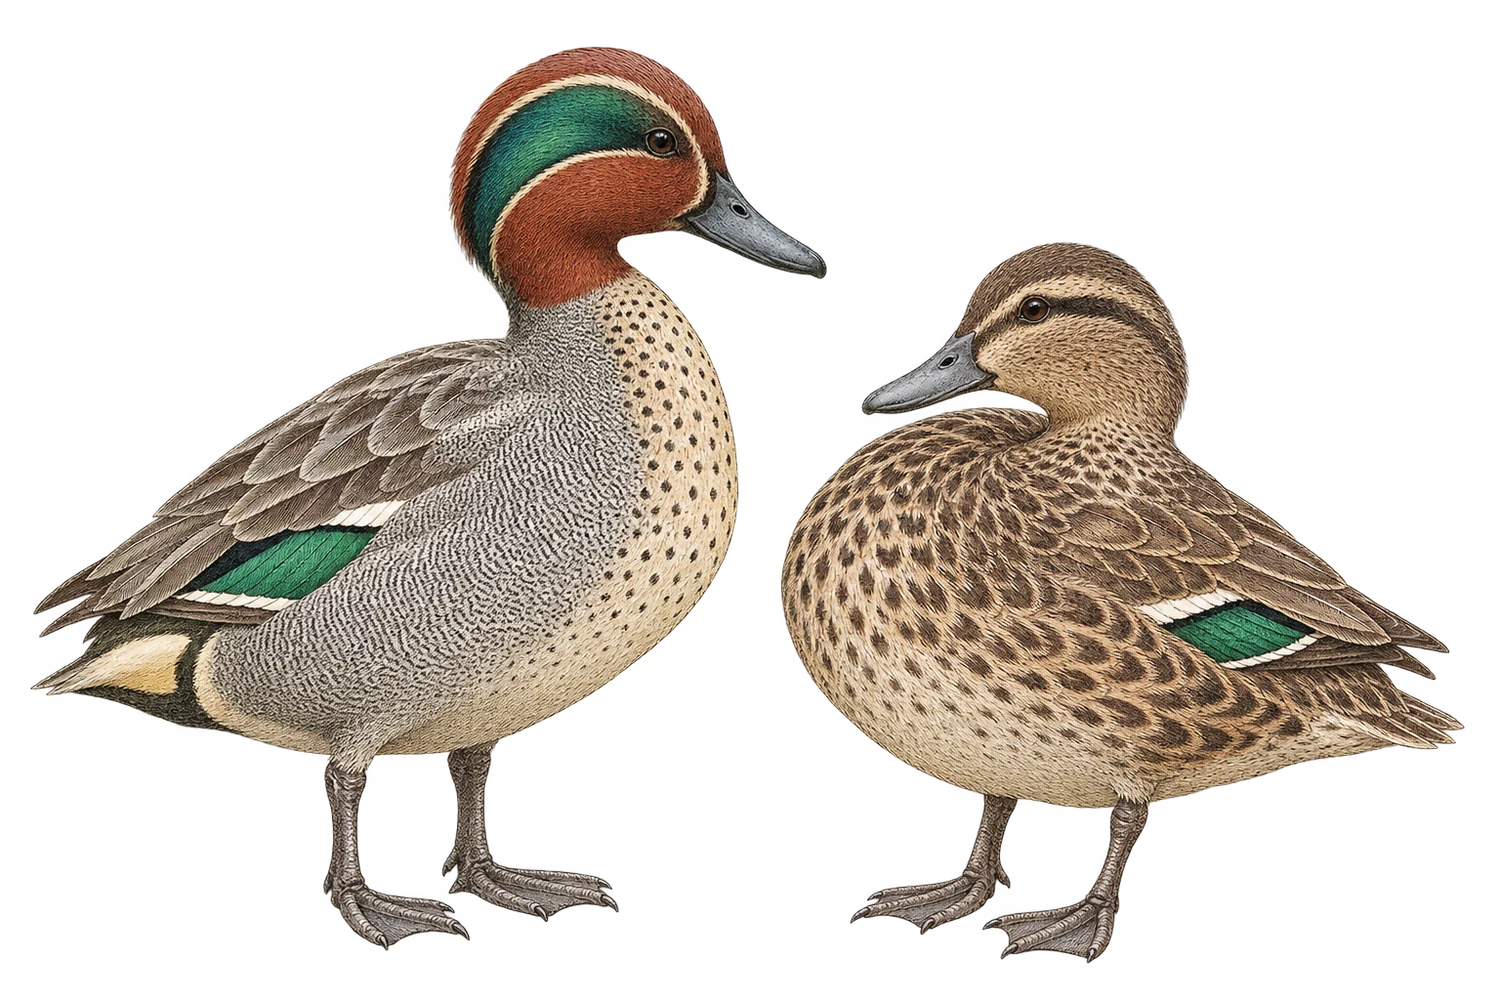
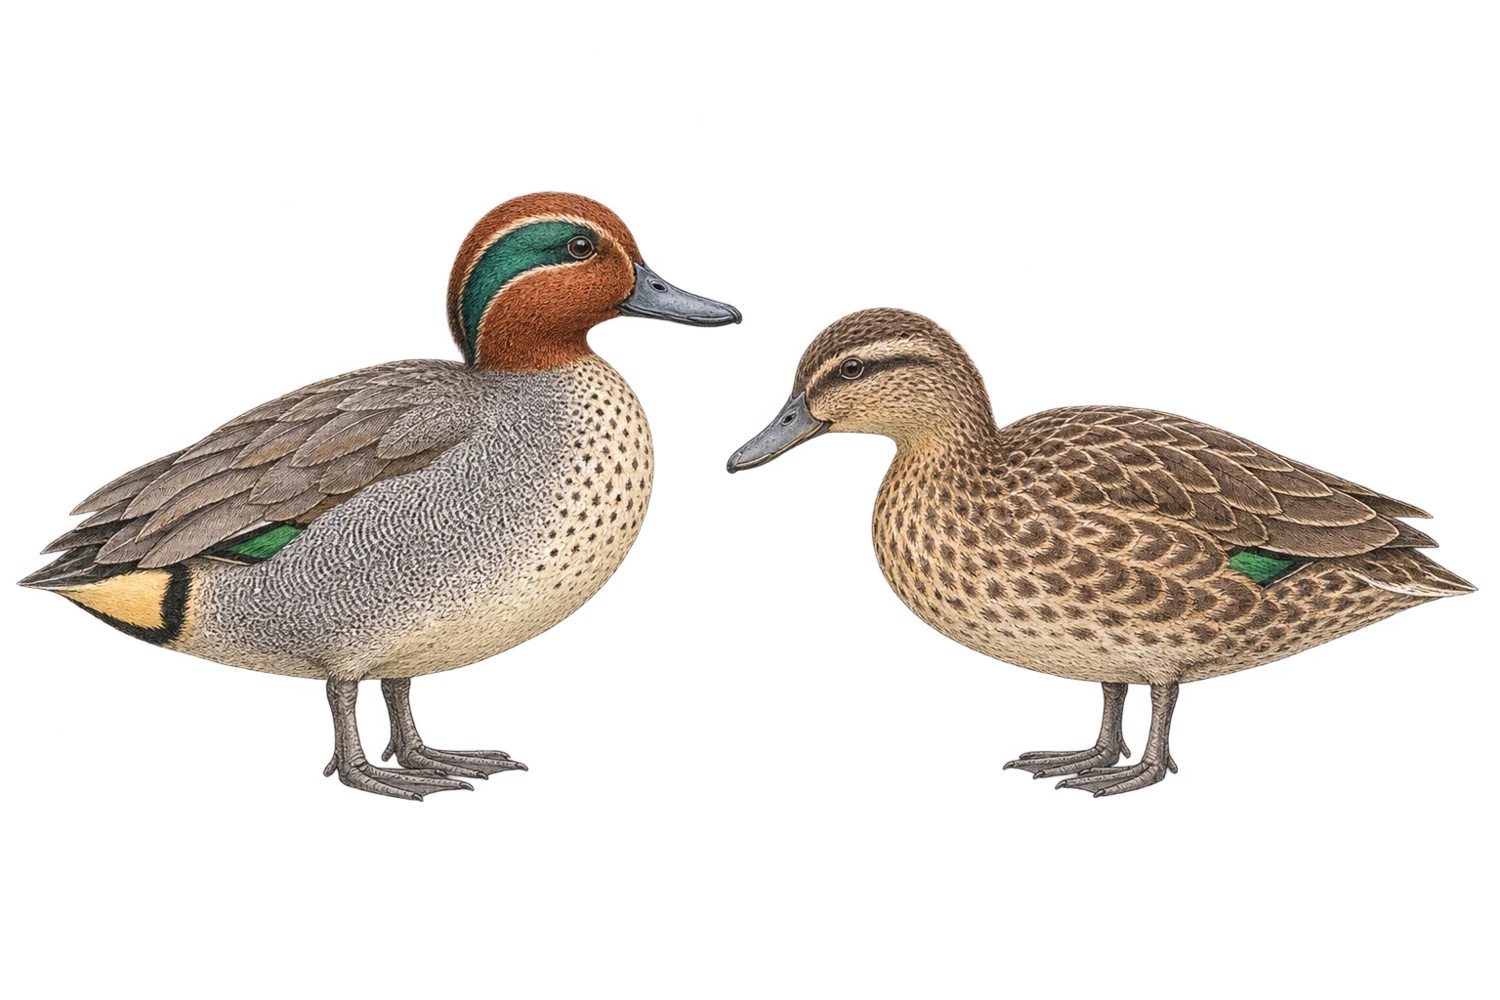
Deck: answer slide for Vote 3, new duck pair, pond on the last slide
- Slide 27 (new) answers the vote on slide 26; the deck now has 31 slides
- Slide 12: the pair is redrawn with correct standing anatomy
- Slide 31: the drake swims on a small pond with ripples, reeds and grass

Claude-Session: https://claude.ai/code/session_018LqARvXxcm6SYZi3cFreuJ

diff --git a/materials/slides/index.html b/materials/slides/index.html
@@ -397,6 +397,17 @@ td.t{font:500 24px var(--mono);color:var(--teal);white-space:nowrap}
 </section>
 
 <!-- 27 -->
+<section class="slide" data-section="Vote 3">
+  <h2>B. The rule blocks it.</h2>
+  <p class="lede" style="max-width:38ch">"All tests pass" is a claim. CI is the check. <code>main</code> takes a pull request only when the check is green, and an approval does not change that.</p>
+  <div class="grid g3" style="margin-top:50px">
+    <div class="panel rise"><div class="tag teal">Claim</div><p class="small">The agent ran the tests on its own machine, maybe on older code</p></div>
+    <div class="panel rise"><div class="tag teal">Check</div><p class="small">CI runs the same commands on a clean machine, for every push</p></div>
+    <div class="win rise"><div class="tag">Rule</div><p style="font-size:24px">Red check: no merge, for anyone. Fix the branch, push again.</p></div>
+  </div>
+</section>
+
+<!-- 28 -->
 <section class="slide section" data-section="5 · Play">
   <div class="grid" style="grid-template-columns:1fr 340px;gap:80px;align-items:center;height:100%">
     <div><div class="big">05</div><h2 style="margin-top:20px">Integrate and play</h2><p class="lede">Both sides merged. Scan again and play the version we just built.</p></div>
@@ -405,7 +416,7 @@ td.t{font:500 24px var(--mono);color:var(--teal);white-space:nowrap}
   <div class="duck" style="right:205px;bottom:100px;width:175px"><img src="assets/teal-landing.webp" alt=""></div>
 </section>
 
-<!-- 28 -->
+<!-- 29 -->
 <section class="slide" data-section="6 · Sign-off">
   <h2>Sign-off</h2>
   <div class="grid g2" style="margin-top:50px">
@@ -416,7 +427,7 @@ td.t{font:500 24px var(--mono);color:var(--teal);white-space:nowrap}
   <p class="src">Linux kernel, Documentation/process/generated-content.rst</p>
 </section>
 
-<!-- 29 -->
+<!-- 30 -->
 <section class="slide" data-section="6 · Safety">
   <h2>Five habits</h2>
   <ul class="plain" style="margin-top:30px;max-width:1250px">
@@ -430,7 +441,7 @@ td.t{font:500 24px var(--mono);color:var(--teal);white-space:nowrap}
   <div class="duck" style="right:90px;bottom:110px;width:260px"><img src="assets/teal-look-back.webp" alt=""></div>
 </section>
 
-<!-- 30 -->
+<!-- 31 -->
 <section class="slide" data-section="End">
   <div class="grid" style="grid-template-columns:1fr 340px;gap:80px;align-items:center;height:100%">
     <div>
@@ -440,7 +451,7 @@ td.t{font:500 24px var(--mono);color:var(--teal);white-space:nowrap}
     </div>
     <div class="qr"><svg height="256" width="256" viewBox="0 0 33 33" role="img" aria-label="QR code: the workshop repository"><path fill="#ffffff" d="M0,0 h33v33H0z" shape-rendering="crispEdges"></path><path fill="#011627" d="M0 0h7v1H0zM11 0h1v1H11zM16 0h5v1H16zM23 0h1v1H23zM26,0 h7v1H26zM0 1h1v1H0zM6 1h1v1H6zM9 1h2v1H9zM12 1h1v1H12zM15 1h2v1H15zM18 1h1v1H18zM20 1h1v1H20zM22 1h1v1H22zM26 1h1v1H26zM32,1 h1v1H32zM0 2h1v1H0zM2 2h3v1H2zM6 2h1v1H6zM8 2h1v1H8zM10 2h1v1H10zM14 2h1v1H14zM18 2h1v1H18zM20 2h2v1H20zM26 2h1v1H26zM28 2h3v1H28zM32,2 h1v1H32zM0 3h1v1H0zM2 3h3v1H2zM6 3h1v1H6zM8 3h1v1H8zM10 3h2v1H10zM15 3h1v1H15zM17 3h1v1H17zM22 3h1v1H22zM24 3h1v1H24zM26 3h1v1H26zM28 3h3v1H28zM32,3 h1v1H32zM0 4h1v1H0zM2 4h3v1H2zM6 4h1v1H6zM8 4h1v1H8zM11 4h1v1H11zM13 4h9v1H13zM23 4h1v1H23zM26 4h1v1H26zM28 4h3v1H28zM32,4 h1v1H32zM0 5h1v1H0zM6 5h1v1H6zM8 5h1v1H8zM10 5h1v1H10zM12 5h3v1H12zM20 5h1v1H20zM26 5h1v1H26zM32,5 h1v1H32zM0 6h7v1H0zM8 6h1v1H8zM10 6h1v1H10zM12 6h1v1H12zM14 6h1v1H14zM16 6h1v1H16zM18 6h1v1H18zM20 6h1v1H20zM22 6h1v1H22zM24 6h1v1H24zM26,6 h7v1H26zM8 7h2v1H8zM11 7h1v1H11zM14 7h1v1H14zM16 7h1v1H16zM18 7h2v1H18zM21 7h1v1H21zM24 7h1v1H24zM0 8h1v1H0zM2 8h5v1H2zM10 8h2v1H10zM13 8h2v1H13zM17 8h1v1H17zM23 8h1v1H23zM26 8h5v1H26zM0 9h1v1H0zM2 9h2v1H2zM8 9h1v1H8zM10 9h2v1H10zM13 9h1v1H13zM16 9h2v1H16zM19 9h3v1H19zM23 9h1v1H23zM26 9h2v1H26zM29,9 h4v1H29zM0 10h3v1H0zM4 10h1v1H4zM6 10h1v1H6zM13 10h5v1H13zM22 10h1v1H22zM24 10h2v1H24zM28 10h1v1H28zM30 10h2v1H30zM0 11h2v1H0zM3 11h2v1H3zM7 11h1v1H7zM10 11h2v1H10zM13 11h1v1H13zM16 11h1v1H16zM20 11h3v1H20zM24 11h2v1H24zM28 11h4v1H28zM2 12h1v1H2zM6 12h3v1H6zM10 12h2v1H10zM14 12h1v1H14zM16 12h2v1H16zM20 12h1v1H20zM23 12h2v1H23zM27 12h3v1H27zM31 12h1v1H31zM3 13h2v1H3zM10 13h1v1H10zM12 13h1v1H12zM15 13h1v1H15zM19 13h2v1H19zM23 13h1v1H23zM26 13h1v1H26zM30,13 h3v1H30zM1 14h2v1H1zM4 14h5v1H4zM10 14h7v1H10zM20 14h1v1H20zM22 14h1v1H22zM24 14h5v1H24zM31 14h1v1H31zM0 15h5v1H0zM7 15h1v1H7zM10 15h1v1H10zM15 15h1v1H15zM18 15h2v1H18zM21 15h1v1H21zM25 15h2v1H25zM29 15h2v1H29zM0 16h1v1H0zM6 16h1v1H6zM12 16h1v1H12zM15 16h1v1H15zM17 16h1v1H17zM19 16h1v1H19zM22 16h1v1H22zM24 16h2v1H24zM27 16h2v1H27zM32,16 h1v1H32zM2 17h2v1H2zM5 17h1v1H5zM8 17h1v1H8zM10 17h5v1H10zM18 17h1v1H18zM20 17h1v1H20zM23 17h1v1H23zM26 17h2v1H26zM29 17h2v1H29zM32,17 h1v1H32zM0 18h3v1H0zM4 18h3v1H4zM12 18h5v1H12zM18 18h1v1H18zM20 18h3v1H20zM24 18h5v1H24zM30 18h2v1H30zM1 19h3v1H1zM5 19h1v1H5zM10 19h2v1H10zM13 19h1v1H13zM18 19h5v1H18zM25 19h1v1H25zM27 19h4v1H27zM1 20h3v1H1zM5 20h2v1H5zM11 20h1v1H11zM13 20h3v1H13zM18 20h2v1H18zM22 20h1v1H22zM24 20h2v1H24zM28 20h2v1H28zM0 21h2v1H0zM3 21h3v1H3zM8 21h1v1H8zM10 21h1v1H10zM13 21h4v1H13zM18 21h6v1H18zM26 21h1v1H26zM30 21h1v1H30zM32,21 h1v1H32zM0 22h1v1H0zM3 22h2v1H3zM6 22h2v1H6zM9 22h2v1H9zM12 22h3v1H12zM18 22h1v1H18zM25 22h1v1H25zM29 22h3v1H29zM0 23h1v1H0zM2 23h2v1H2zM5 23h1v1H5zM7 23h2v1H7zM14 23h1v1H14zM16 23h1v1H16zM19 23h1v1H19zM21 23h3v1H21zM25,23 h8v1H25zM0 24h1v1H0zM4 24h1v1H4zM6 24h3v1H6zM12 24h3v1H12zM16 24h3v1H16zM22 24h8v1H22zM31 24h1v1H31zM8 25h3v1H8zM13 25h1v1H13zM17 25h3v1H17zM21 25h1v1H21zM23 25h2v1H23zM28 25h1v1H28zM30,25 h3v1H30zM0 26h7v1H0zM9 26h2v1H9zM12 26h1v1H12zM15 26h1v1H15zM17 26h1v1H17zM20 26h1v1H20zM22 26h3v1H22zM26 26h1v1H26zM28 26h1v1H28zM30 26h2v1H30zM0 27h1v1H0zM6 27h1v1H6zM8 27h3v1H8zM12 27h7v1H12zM20 27h5v1H20zM28,27 h5v1H28zM0 28h1v1H0zM2 28h3v1H2zM6 28h1v1H6zM8 28h3v1H8zM15 28h2v1H15zM19 28h2v1H19zM22 28h1v1H22zM24 28h6v1H24zM31,28 h2v1H31zM0 29h1v1H0zM2 29h3v1H2zM6 29h1v1H6zM8 29h2v1H8zM11 29h1v1H11zM13 29h1v1H13zM15 29h1v1H15zM17 29h4v1H17zM23 29h3v1H23zM28,29 h5v1H28zM0 30h1v1H0zM2 30h3v1H2zM6 30h1v1H6zM8 30h4v1H8zM15 30h2v1H15zM20 30h1v1H20zM22 30h1v1H22zM26 30h2v1H26zM30 30h1v1H30zM0 31h1v1H0zM6 31h1v1H6zM11 31h2v1H11zM14 31h2v1H14zM19 31h4v1H19zM28 31h3v1H28zM0 32h7v1H0zM8 32h2v1H8zM11 32h9v1H11zM22 32h6v1H22zM31 32h1v1H31z" shape-rendering="crispEdges"></path></svg></div>
   </div>
-  <div class="duck" style="right:170px;bottom:84px;width:220px"><img src="assets/duck-swimming.webp" alt=""></div>
+  <div class="duck" style="right:120px;bottom:88px;width:360px"><img src="assets/teal-pond.webp" alt=""></div>
 </section>
 
 </div></div>
